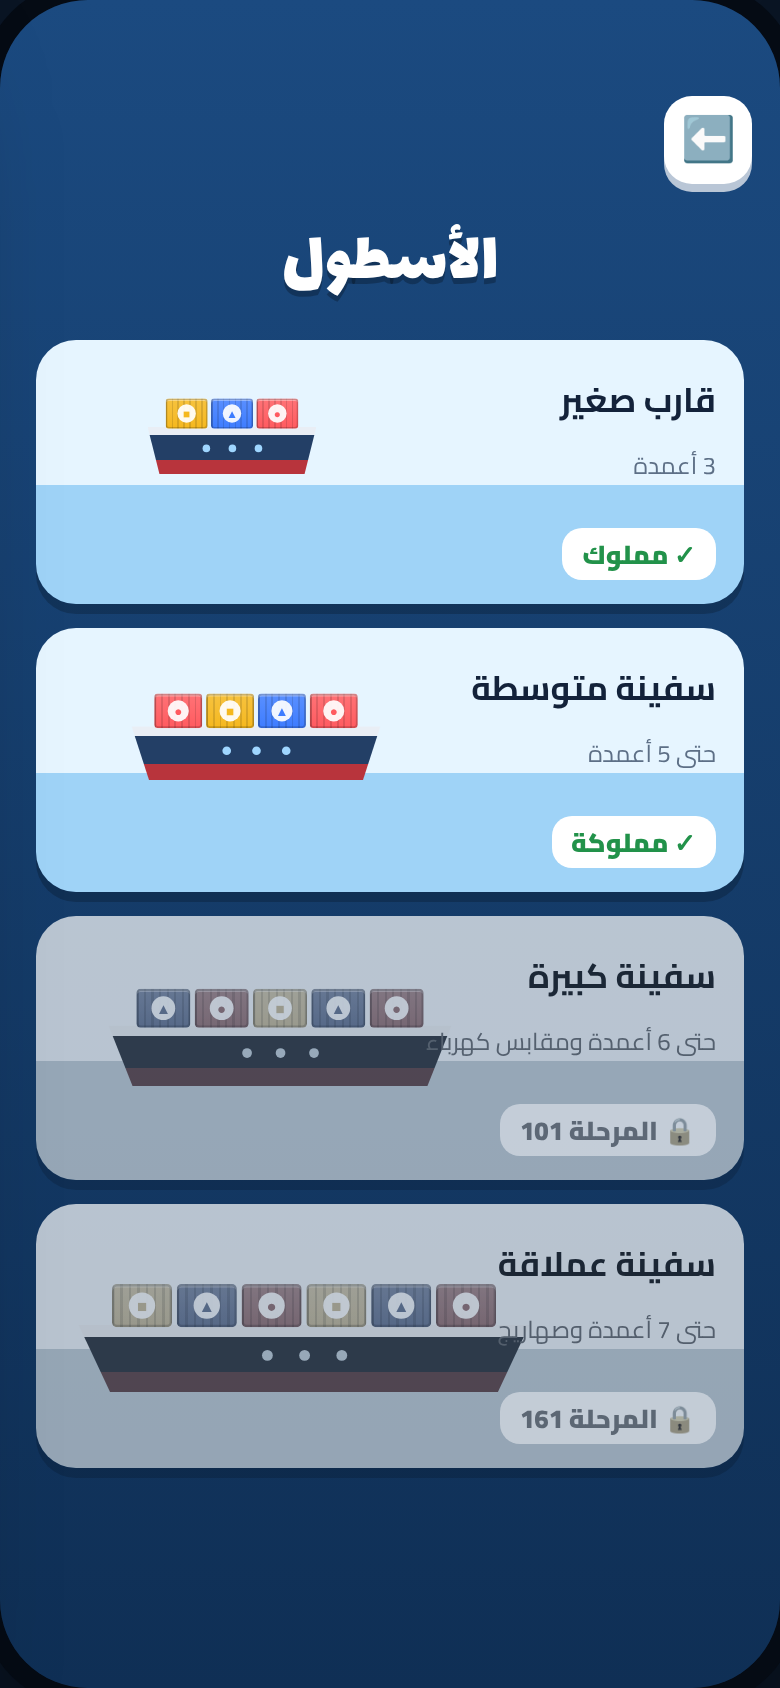
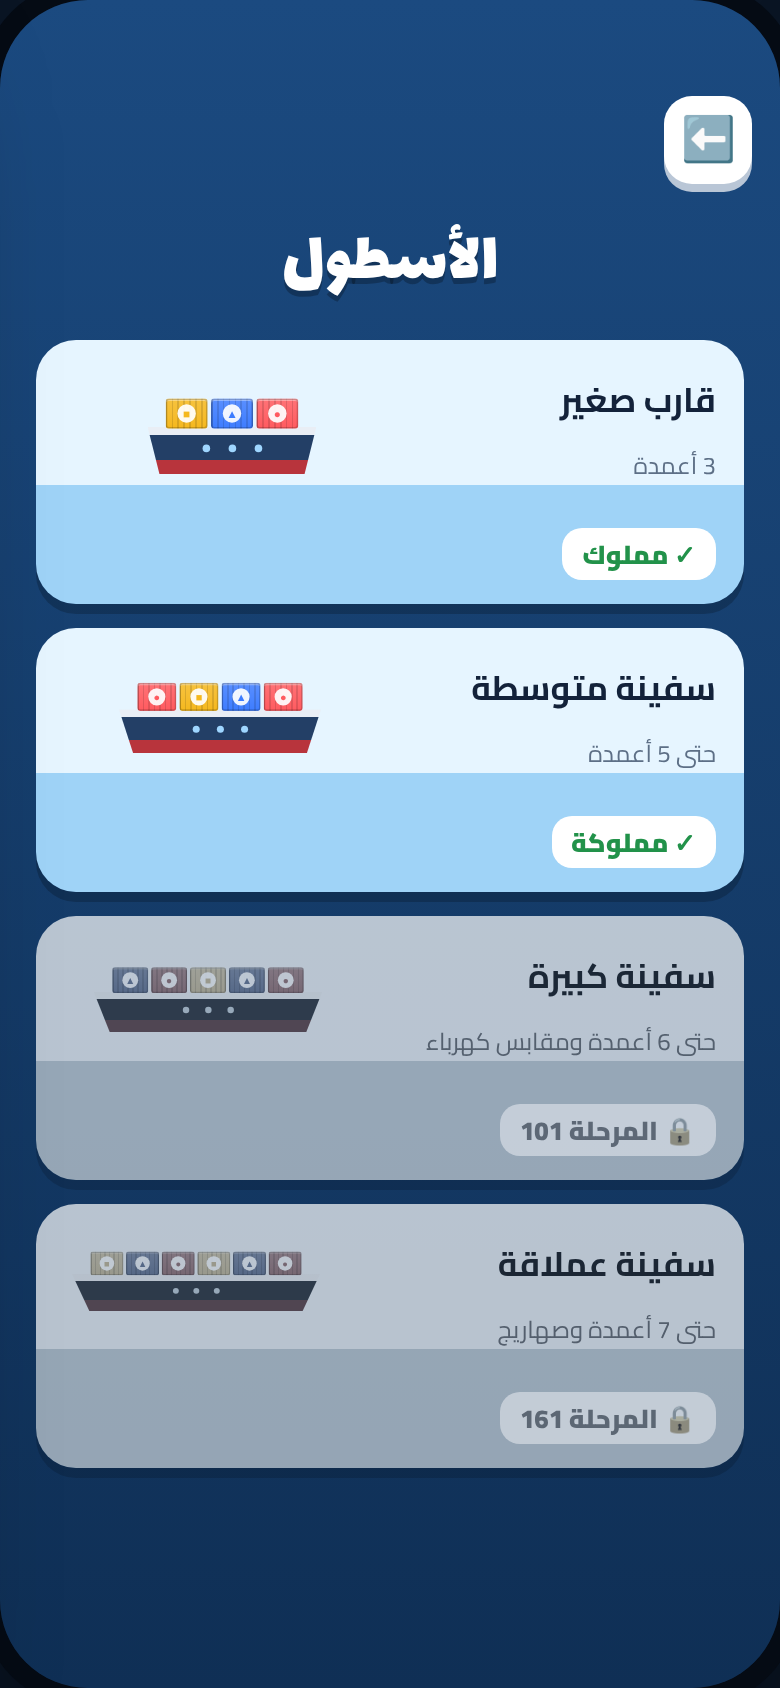
Cargo mockups: keep fleet ships clear of text
Claude-Session: https://claude.ai/code/session_0198GSpUHpAsMi38EfXjb44N

Changed region(s): [[0.0923, 0.7393, 0.6769, 0.8318], [0.1231, 0.5545, 0.5846, 0.6469], [0.1538, 0.4005, 0.4923, 0.4621]]

diff --git a/design/cargo/cargo-mockups.html b/design/cargo/cargo-mockups.html
@@ -270,7 +270,7 @@ body { font-family: "Cairo", sans-serif; background: #0b1626; color: var(--ink);
   .fl.lock .fl-s{color:#6b7a8f}</style>
   <div class="hud"><div class="icon-btn"><i class="e" style="">⬅</i></div><div class="spacer"></div></div>
   <h2 class="title">الأسطول</h2>
-  <div class="fleet"><div class="fl"><div class="fl-img" style="transform:scale(0.42)"><div class="ship" ><div class="cols"><div class="col "><div class="ct " style="--c:#ff5a5f;"><span class="sym">●</span></div></div><div class="col "><div class="ct " style="--c:#3d7cff;"><span class="sym">▲</span></div></div><div class="col "><div class="ct " style="--c:#f5b81c;"><span class="sym">■</span></div></div></div><div class="hull"><span class="porth"></span><span class="porth"></span><span class="porth"></span></div></div></div><div class="fl-t"><b>قارب صغير</b><span>3 أعمدة</span></div><span class="fl-s">✓ مملوك</span></div><div class="fl"><div class="fl-img" style="transform:scale(0.48)"><div class="ship" ><div class="cols"><div class="col "><div class="ct " style="--c:#ff5a5f;"><span class="sym">●</span></div></div><div class="col "><div class="ct " style="--c:#3d7cff;"><span class="sym">▲</span></div></div><div class="col "><div class="ct " style="--c:#f5b81c;"><span class="sym">■</span></div></div><div class="col "><div class="ct " style="--c:#ff5a5f;"><span class="sym">●</span></div></div></div><div class="hull"><span class="porth"></span><span class="porth"></span><span class="porth"></span></div></div></div><div class="fl-t"><b>سفينة متوسطة</b><span>حتى 5 أعمدة</span></div><span class="fl-s">✓ مملوكة</span></div><div class="fl lock"><div class="fl-img" style="transform:scale(0.54)"><div class="ship" ><div class="cols"><div class="col "><div class="ct " style="--c:#ff5a5f;"><span class="sym">●</span></div></div><div class="col "><div class="ct " style="--c:#3d7cff;"><span class="sym">▲</span></div></div><div class="col "><div class="ct " style="--c:#f5b81c;"><span class="sym">■</span></div></div><div class="col "><div class="ct " style="--c:#ff5a5f;"><span class="sym">●</span></div></div><div class="col "><div class="ct " style="--c:#3d7cff;"><span class="sym">▲</span></div></div></div><div class="hull"><span class="porth"></span><span class="porth"></span><span class="porth"></span></div></div></div><div class="fl-t"><b>سفينة كبيرة</b><span>حتى 6 أعمدة ومقابس كهرباء</span></div><span class="fl-s">🔒 المرحلة 101</span></div><div class="fl lock"><div class="fl-img" style="transform:scale(0.6)"><div class="ship" ><div class="cols"><div class="col "><div class="ct " style="--c:#ff5a5f;"><span class="sym">●</span></div></div><div class="col "><div class="ct " style="--c:#3d7cff;"><span class="sym">▲</span></div></div><div class="col "><div class="ct " style="--c:#f5b81c;"><span class="sym">■</span></div></div><div class="col "><div class="ct " style="--c:#ff5a5f;"><span class="sym">●</span></div></div><div class="col "><div class="ct " style="--c:#3d7cff;"><span class="sym">▲</span></div></div><div class="col "><div class="ct " style="--c:#f5b81c;"><span class="sym">■</span></div></div></div><div class="hull"><span class="porth"></span><span class="porth"></span><span class="porth"></span></div></div></div><div class="fl-t"><b>سفينة عملاقة</b><span>حتى 7 أعمدة وصهاريج</span></div><span class="fl-s">🔒 المرحلة 161</span></div></div>
+  <div class="fleet"><div class="fl"><div class="fl-img" style="transform:scale(0.42)"><div class="ship" ><div class="cols"><div class="col "><div class="ct " style="--c:#ff5a5f;"><span class="sym">●</span></div></div><div class="col "><div class="ct " style="--c:#3d7cff;"><span class="sym">▲</span></div></div><div class="col "><div class="ct " style="--c:#f5b81c;"><span class="sym">■</span></div></div></div><div class="hull"><span class="porth"></span><span class="porth"></span><span class="porth"></span></div></div></div><div class="fl-t"><b>قارب صغير</b><span>3 أعمدة</span></div><span class="fl-s">✓ مملوك</span></div><div class="fl"><div class="fl-img" style="transform:scale(0.39)"><div class="ship" ><div class="cols"><div class="col "><div class="ct " style="--c:#ff5a5f;"><span class="sym">●</span></div></div><div class="col "><div class="ct " style="--c:#3d7cff;"><span class="sym">▲</span></div></div><div class="col "><div class="ct " style="--c:#f5b81c;"><span class="sym">■</span></div></div><div class="col "><div class="ct " style="--c:#ff5a5f;"><span class="sym">●</span></div></div></div><div class="hull"><span class="porth"></span><span class="porth"></span><span class="porth"></span></div></div></div><div class="fl-t"><b>سفينة متوسطة</b><span>حتى 5 أعمدة</span></div><span class="fl-s">✓ مملوكة</span></div><div class="fl lock"><div class="fl-img" style="transform:scale(0.36)"><div class="ship" ><div class="cols"><div class="col "><div class="ct " style="--c:#ff5a5f;"><span class="sym">●</span></div></div><div class="col "><div class="ct " style="--c:#3d7cff;"><span class="sym">▲</span></div></div><div class="col "><div class="ct " style="--c:#f5b81c;"><span class="sym">■</span></div></div><div class="col "><div class="ct " style="--c:#ff5a5f;"><span class="sym">●</span></div></div><div class="col "><div class="ct " style="--c:#3d7cff;"><span class="sym">▲</span></div></div></div><div class="hull"><span class="porth"></span><span class="porth"></span><span class="porth"></span></div></div></div><div class="fl-t"><b>سفينة كبيرة</b><span>حتى 6 أعمدة ومقابس كهرباء</span></div><span class="fl-s">🔒 المرحلة 101</span></div><div class="fl lock"><div class="fl-img" style="transform:scale(0.32999999999999996)"><div class="ship" ><div class="cols"><div class="col "><div class="ct " style="--c:#ff5a5f;"><span class="sym">●</span></div></div><div class="col "><div class="ct " style="--c:#3d7cff;"><span class="sym">▲</span></div></div><div class="col "><div class="ct " style="--c:#f5b81c;"><span class="sym">■</span></div></div><div class="col "><div class="ct " style="--c:#ff5a5f;"><span class="sym">●</span></div></div><div class="col "><div class="ct " style="--c:#3d7cff;"><span class="sym">▲</span></div></div><div class="col "><div class="ct " style="--c:#f5b81c;"><span class="sym">■</span></div></div></div><div class="hull"><span class="porth"></span><span class="porth"></span><span class="porth"></span></div></div></div><div class="fl-t"><b>سفينة عملاقة</b><span>حتى 7 أعمدة وصهاريج</span></div><span class="fl-s">🔒 المرحلة 161</span></div></div>
 
 </div><figcaption>10. الأسطول<span>سفن أكبر تُفتح مع التقدم</span></figcaption></figure><figure class="cell"><div class="phone harbor" id="s11">
 

diff --git a/design/cargo/generate.py b/design/cargo/generate.py
@@ -302,7 +302,7 @@ add(9,'عنصر جديد','كل مستوى يبدأ بعنصر جديد يُشر
 
 # 10 fleet
 fleet=[('قارب صغير','3 أعمدة','✓ مملوك',1),('سفينة متوسطة','حتى 5 أعمدة','✓ مملوكة',1),('سفينة كبيرة','حتى 6 أعمدة ومقابس كهرباء','🔒 المرحلة 101',0),('سفينة عملاقة','حتى 7 أعمدة وصهاريج','🔒 المرحلة 161',0)]
-fr=''.join(f'<div class="fl{" lock" if not o else ""}"><div class="fl-img" style="transform:scale({.42+i*.06})">{ship([col([ct(1+(j%3))],1) for j in range(3+i)])}</div><div class="fl-t"><b>{n}</b><span>{d}</span></div><span class="fl-s">{s}</span></div>' for i,(n,d,s,o) in enumerate(fleet))
+fr=''.join(f'<div class="fl{" lock" if not o else ""}"><div class="fl-img" style="transform:scale({.42-i*.03})">{ship([col([ct(1+(j%3))],1) for j in range(3+i)])}</div><div class="fl-t"><b>{n}</b><span>{d}</span></div><span class="fl-s">{s}</span></div>' for i,(n,d,s,o) in enumerate(fleet))
 add(10,'الأسطول','سفن أكبر تُفتح مع التقدم', f'''
   <style>.fleet{{position:absolute;top:170px;left:18px;right:18px;display:flex;flex-direction:column;gap:12px}}
   .fl{{background:#fff;border-radius:20px;height:132px;position:relative;overflow:hidden;box-shadow:0 5px 0 rgba(0,0,0,.2);background:linear-gradient(180deg,#e6f5ff 0 55%,#9fd3f7 55%)}}
